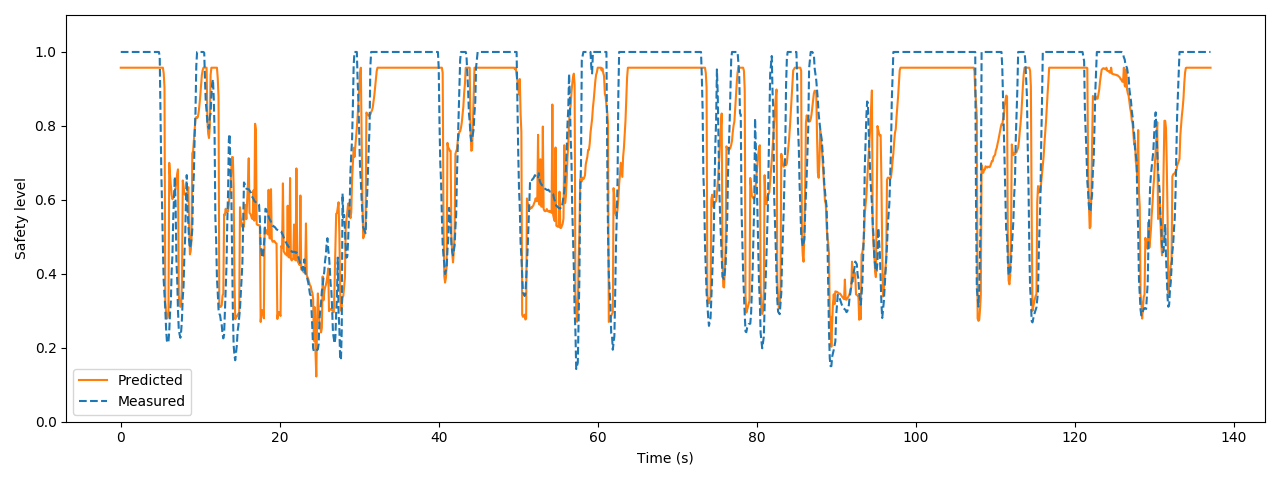
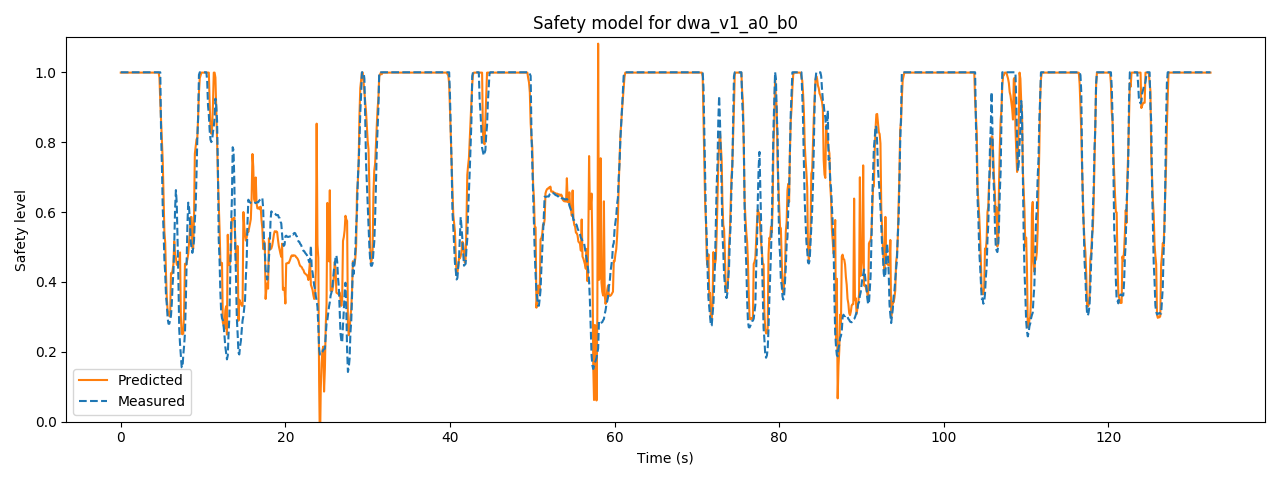
After grad update

diff --git a/scripts/train_models.py b/scripts/train_models.py
@@ -29,7 +29,7 @@ dir_results = path + '/results/'
 exp = 't2'
 # configs = ['teb_v0_a0_b0','dwa_v0_a0_b0','teb_v1_a0_b0','dwa_v1_a0_b0']
 configs = ["dwa_v1_a0_b0", "dwa_v1_a1_b0", "dwa_v1_a0_b1", "dwa_v1_a1_b1", "dwa_v2_a0_b0", "dwa_v2_a1_b0", "dwa_v2_a0_b1", "dwa_v2_a1_b1", "teb_v1_a0_b0", "teb_v1_a1_b0", "teb_v1_a0_b1", "teb_v1_a1_b1", "teb_v2_a0_b0", "teb_v2_a1_b0", "teb_v2_a0_b1", "teb_v2_a1_b1"]
-# configs = ["dwa_v0_a0_b0", "teb_v0_a0_b0"]
+# configs = ["dwa_v1_a0_b0"]
 # Topics
 d_topics = []
 xtopics = ['obstacle_density21','narrowness1']
@@ -38,7 +38,7 @@ ytopics = ['safety']
 # print_output = True
 print_output = True
 # plot_model = True
-plot_model = True
+plot_model = False
 
 # Models
 # polies = [1,2,3,4,5,6]
@@ -48,7 +48,8 @@ polies = [5]
 samplesize = 100
 rolling = 1
 
-save_models = True
+save_models = False
+save_plots = True
 
 # print('Load files variable with files to include')
 # pkl_filename = dir_bags + "files_incl_%s"%(exp)
@@ -146,14 +147,21 @@ for ytopic in ytopics:
                     ax.set_title("Safety model for %s"%(config))
                     plt.tight_layout()
 
-                    # fig.savefig(dir_figs + 'model_%s_test_config_%s'%(ytopic,config) + '.png')
+                    if save_plots: fig.savefig(dir_figs + 'model_%s_test_config_%s'%(ytopic,config) + '.png')
             idm+=1
     ws.append(["","r2score","mse"])
     idy = 0
     for config in configs:
         ws.append([config, r2score_array[idy], mse_array[idy]])
         idy+=1
-
+    print("r2scores")
+    print("average  = %s"%(sum(r2score_array)/len(r2score_array)))
+    print("min      = %s"%(min(r2score_array)))
+    print("max      = %s"%(max(r2score_array)))
+    print("mse")
+    print("average  = %s"%(sum(mse_array)/len(mse_array)))
+    print("min      = %s"%(min(mse_array)))
+    print("max      = %s"%(max(mse_array)))
 
     # fig, ax = plt.subplots()
     # ax.bar(configs, r2scores[ytopic])#, score = %s'%(round(m1.score(df[idy][xtopics].values,df[idy][ytopic].values),2)))

diff --git a/scripts/validate_model.py b/scripts/validate_model.py
@@ -21,14 +21,14 @@ from functions_postprocess import *
 rospack = rospkg.RosPack()
 path = rospack.get_path('model_training')
 path2 = rospack.get_path('simulation_tests')
-dir_bags = path2 + '/bags/'
+dir_bags = path + '/bags/'
 dir_figs = path + '/figures/'
 dir_models = path + '/models/'
 dir_results = path + '/results/'
 
 # Experiment name and configs
-exp = 'val3'
-configs = ['teb_v0_a0_b0']
+exp = 'validation'
+configs = ['teb_v1_a0_b0']
 # configs = ['teb_v0_a0_b0']
 
 d_topics = []
